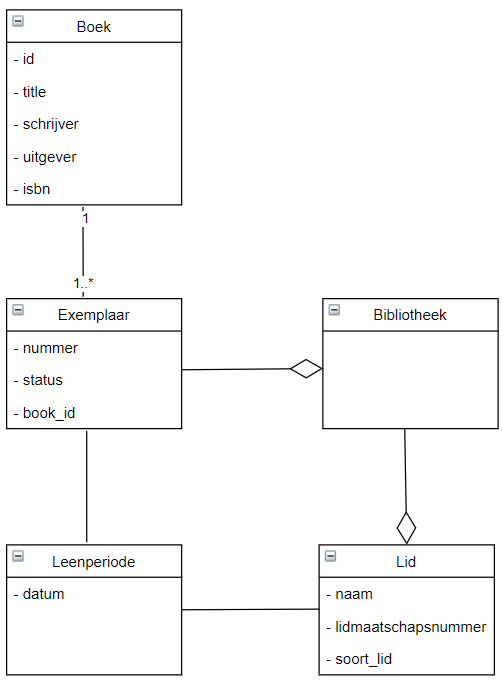
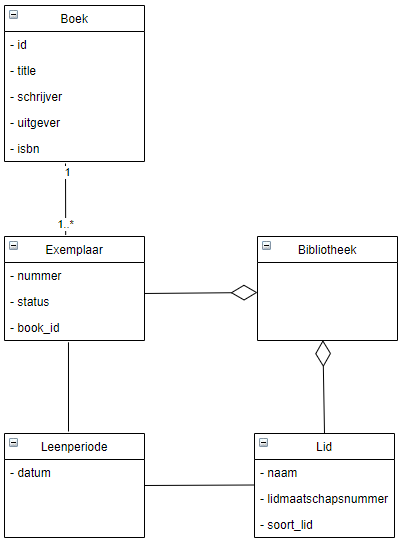
updated bibliotheek

Changed region(s): [[0.0, 0.0, 1.0, 1.0]]

diff --git a/bibliotheek.md b/bibliotheek.md
@@ -1,32 +1,31 @@
-## Het idee
+## Stap 1: Het idee
 
-Er is een systeem nodig voor een bibliotheek waarin de leden worden bijgehouden. Ook de beschikbare boeken staan in het
-systeem. Een lid kan een boek lenen voor 3 weken. Het systeem houdt bij welke boeken aanwezig zijn in de bibliotheek.
+Beschrijf de applicatie. Probeer min of meer volledig te zijn zonder al te zeer op de details in te gaan.
 
-## Ontwerp UML
+    Voor een bibliotheek hebben we een systeem nodig waarin leden worden bijgehouden. In dit systeem staan ook de beschikbare boeken. Een lid kan een boek lenen voor 3 weken. Het systeem houdt bij welke boeken aanwezig zijn in de bibliotheek.
 
-### Eerste opzet klassendiagram
+## Stap 2: Ontwerp UML
 
-1. Beschrijf de applicatie. Probeer min of meer volledig te zijn zonder al te zeer op de details in te gaan
-2. Markeer alle zelfstandige naamwoorden met een kleur
-3. Markeer alle werkwoorden met een andere kleur
-4. De zelfstandige naamwoorden zijn kandidaten om in de applicatie classes te worden
-5. De werkwoorden zijn kandidaat methoden
+### Stap 2a: eerste opzet
 
-#### Voorbeeld tekst
+1. Markeer alle `zelfstandige naamwoorden` met een kleur
+2. Markeer alle `werkwoorden` met een andere kleur
+3. De zelfstandige naamwoorden zijn kandidaten om in de applicatie `classes` te worden
+4. De werkwoorden zijn kandidaat `methoden`
+
+#### Voorbeeld
 
 ![img32.png](images/img32.png)
 
-De rode woorden zijn zelfstandige naamwoorden.<br/>
-De groene woorden zijn de werkwoorden.
+De rode woorden zijn zelfstandige naamwoorden, de groene woorden zijn de werkwoorden.
 
 ![img31.png](images/img31.png)
 
-#### Idee
+#### Bibliotheek
 
-De zelfstandige namen voor het idee zijn als volgt.
+De zelfstandige naamwoorden voor het idee zijn als volgt.
 
-![img.png](images/img33.png)
+![img33.png](images/img33.png)
 
 - Systeem
 - Bibliotheek
@@ -34,23 +33,23 @@ De zelfstandige namen voor het idee zijn als volgt.
 - Boek
 - Leenperiode (=weken)
 
-Systeem is het alles overkoepelende, dat is juist wat je gaat beschrijven, dus deze gebruiken we niet in de
-klassendiagram UML.
+Systeem is het alles overkoepelende, dat is wat je gaat beschrijven, dus deze gebruiken we niet in het klassendiagram.
 
-### UML: klassendiagram
+### Stap 2b: klassendiagram
 
-Wanneer klassen iets met elkaar te maken hebben dan zet je een verbinding ertussen.
+Je kunt een klassendiagram met <a href="https://www.diagrams.net/" target="_blank">diagrams.net</a> maken.
+
+![img.png](images/img34.png)
+
+Wanneer klassen iets met elkaar te maken hebben dan zet je er een verbinding tussen (een lijn).
 
 - Een bibliotheek heeft een X aantal exemplaren (aggregatie - open diamant)
 - Een bibliotheek heeft een X aantal leden (aggregatie - open diamant)
 - Exemplaar heeft een relatie met een boek (associatie - lijn)
-    - een boek kan meerdere exemplaren hebben
-    - ieder exemplaar gaat over 1 boek
-- Lid kan een exemplaar lenen (associatie - lijn)
-- Leenperiode: het exemplaar is geleend voor een periode door een lid. Leenperiode is een soort koppeling tussen
+    - een boek kan meerdere exemplaren hebben (1..*)
+    - ieder exemplaar gaat over 1 boek (1)
+- Leenperiode: het exemplaar is geleend voor een periode door een lid. Leenperiode is een koppeling tussen
   exemplaar en lid (associatie - lijn)
-
-![img34.png](images/img34.png)
 
 ## Database Entities ORM
 
